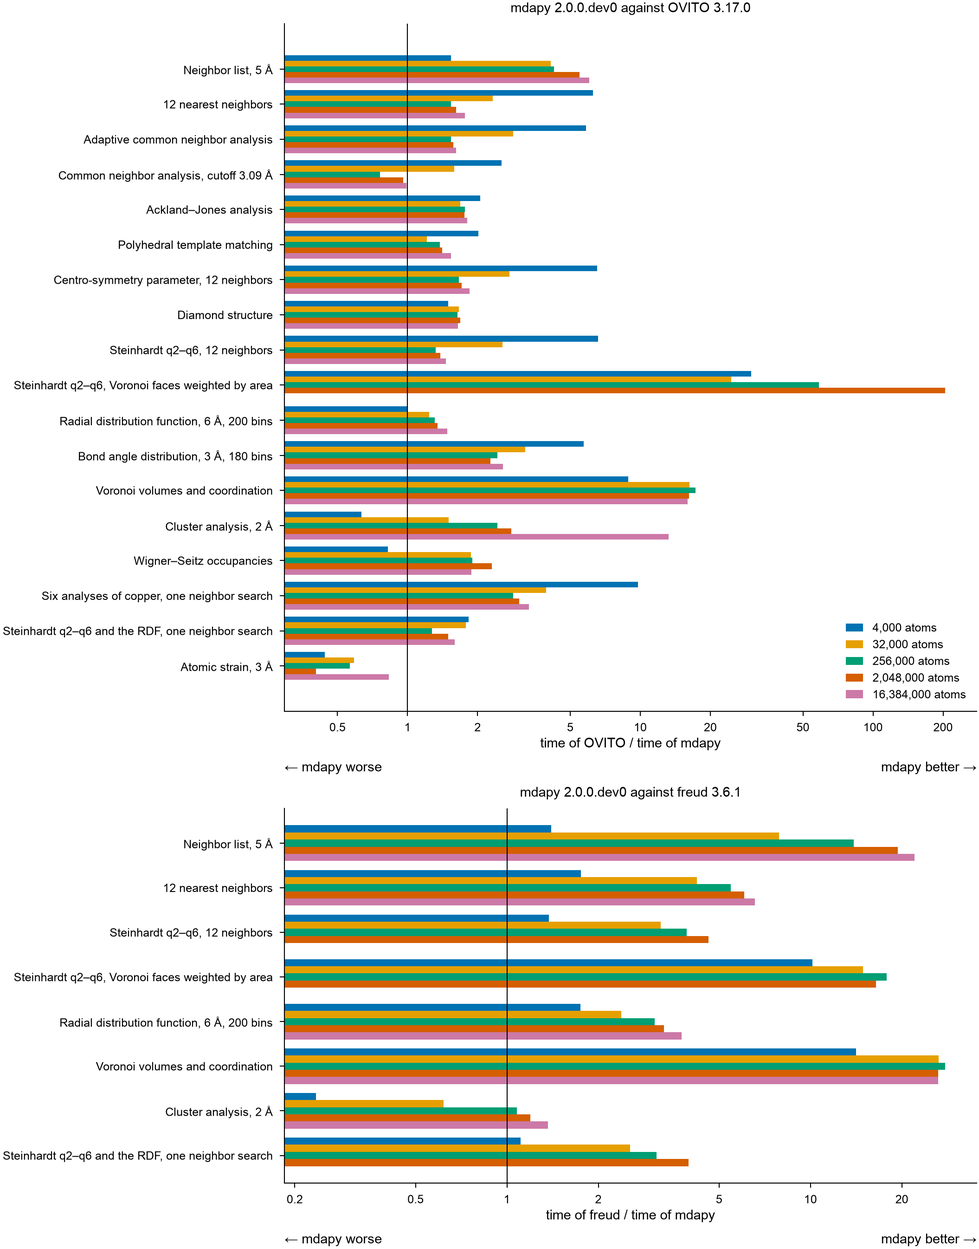
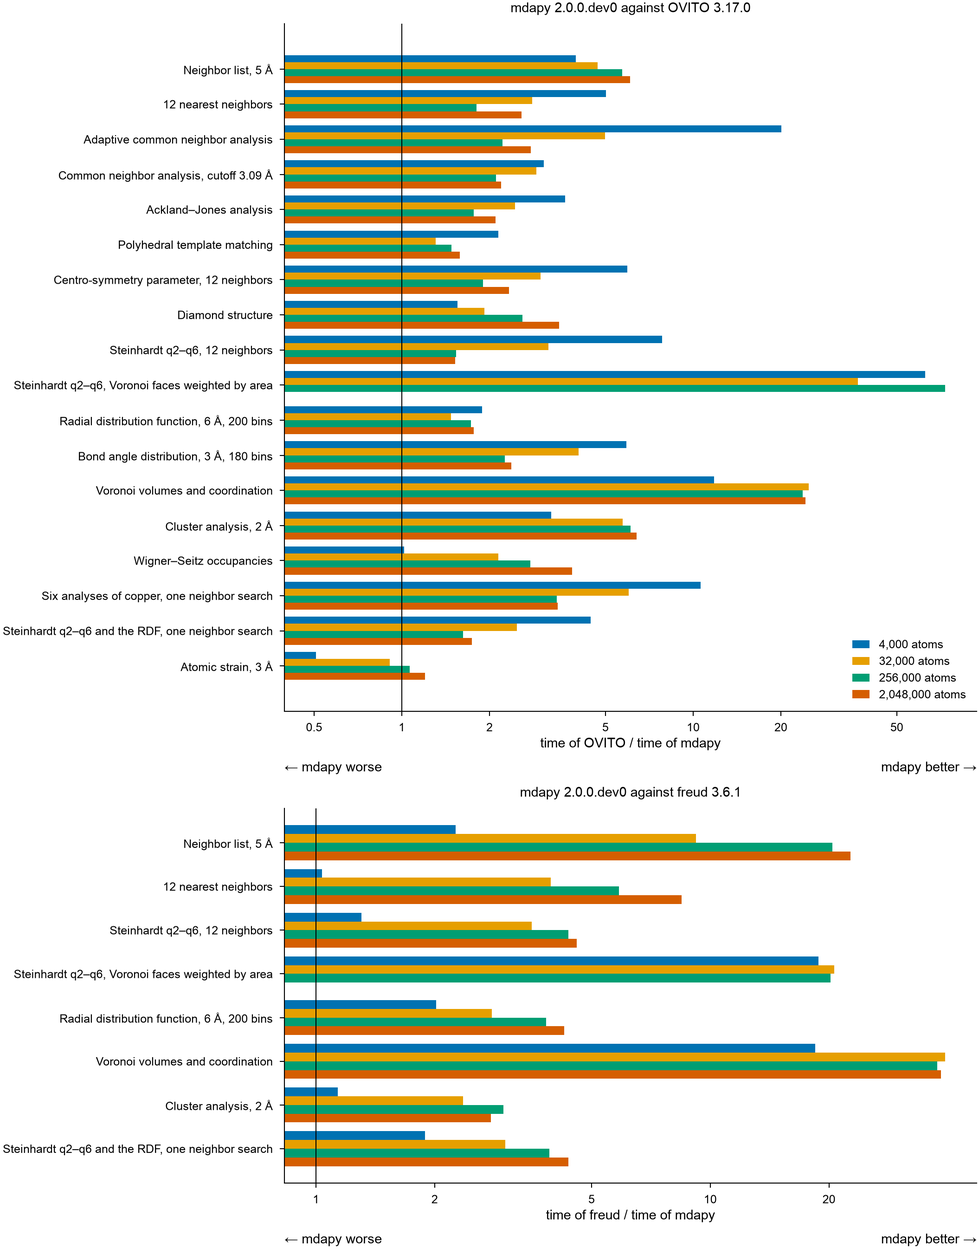
Timings against OVITO and freud after the speedups, up to 2 million atoms
From 256 000 atoms on mdapy is faster than OVITO in every analysis they
share, and below that in all but atomic strain; it is faster than freud in
every one at every size.

diff --git a/docs/performance/comparison.md b/docs/performance/comparison.md
@@ -2,13 +2,13 @@
 
 The analyses that mdapy shares with [OVITO](https://www.ovito.org) and
 [freud](https://freud.readthedocs.io), computed on the same systems with
-the same parameters, from 4 000 to 16 million atoms. A program is timed only
+the same parameters, from 4 000 to 2 million atoms. A program is timed only
 where it gives the result of mdapy, atom by atom.
 
 ## Results
 
 A node of the Triton cluster of Aalto University, alone for the run: two
-Intel Xeon Gold 6248 (40 cores, two NUMA nodes), 191 GB, Linux. Python 3.13,
+Intel Xeon Gold 6230 (40 cores, two NUMA nodes), 191 GB, Linux. Python 3.13,
 mdapy 2.0.0.dev0 built with GCC 12.3, OVITO 3.17.0 and freud 3.6.1 from
 pip, each with 40 threads.
 
@@ -16,38 +16,31 @@ pip, each with 40 threads.
 
 ### What they show
 
-- **OVITO**, from 32 000 atoms on: mdapy builds neighbor lists 4 to 6 times
-  faster in a quarter of the memory, Voronoi cells 16 times faster and
-  Steinhardt parameters over Voronoi faces 25 to 200 times; the other
-  analyses take 1.2 to 3.2 times less time, cluster analysis 13 times less at
-  16 million atoms. Two are not faster: common neighbor analysis with a
-  fixed cutoff is on par from 256 000 atoms on (OVITO 1.3 times faster at
-  256 000), and atomic strain takes 1.2 to 2.5 times as long as OVITO's.
-- **freud**: neighbor lists 8 to 22 times faster in a sixth of the memory,
-  the 12 nearest neighbors 4 to 7 times, Voronoi cells 26 times, Steinhardt
-  parameters and the radial distribution function 2.4 to 4.6 times. freud's
-  cluster analysis is faster below 256 000 atoms (1.6 times at 32 000) and
-  slower above.
+- **OVITO**: from 256 000 atoms on, mdapy is faster in every analysis they
+  share. It builds neighbor lists 4 to 6 times faster in a quarter of the
+  memory, Voronoi cells 24 times faster, Steinhardt parameters over Voronoi
+  faces 37 to 73 times and cluster analysis 6 times; the other analyses
+  take 1.5 to 3.8 times less time. Atomic strain is the closest: OVITO is
+  faster below some 100 000 atoms (twice at 4 000, 1.1 times at 32 000),
+  mdapy above (1.06 times at 256 000, 1.2 times at 2 million).
+- **freud**: mdapy is faster in every analysis at every size: neighbor
+  lists 9 to 23 times from 32 000 atoms on, in a seventh of the memory; the
+  12 nearest neighbors 4 to 8 times; Voronoi cells 38 times; Steinhardt
+  parameters and the radial distribution function 2.8 to 4.6 times; cluster
+  analysis 2.4 to 3 times.
 - **One neighbor search for several analyses**: the six analyses of copper
-  from one list take half the time of the six cases timed apart (7.8 s
-  against 15.1 s at 16 million atoms, 0.97 s against 1.85 s at 2 million;
-  the radial distribution function apart reaches 6 Å instead of 5 Å).
-  OVITO's pipeline of the six takes about the sum of its cases (25.8 s
-  against 26.7 s).
+  from one list take 1.21 s at 2 million atoms, against 2.07 s for the six
+  cases timed apart (0.16 s against 0.29 s at 256 000; the radial
+  distribution function apart reaches 6 Å instead of 5 Å). OVITO's pipeline
+  of the six takes about the sum of its cases (4.15 s against 4.35 s).
 - **Memory**: mdapy's Voronoi analysis returns every face of every cell,
-  with the atom across it, its area and its edges (11.8 GB at 16 million
+  with the atom across it, its area and its edges (1.6 GB at 2 million
   atoms); OVITO's keeps only the volumes and coordination unless asked for
   bonds or polyhedra.
-- **4 000 atoms** take a few milliseconds, where starting the threads
-  counts: OVITO is faster there for cluster analysis, Wigner–Seitz
-  occupancies and atomic strain, freud for cluster analysis.
-- **Not timed**: freud's Steinhardt parameters of the 12 nearest at 16
-  million atoms, alone and with the radial distribution function, were
-  compared under an earlier rule, values within 1e-4 of mdapy's, which ten
-  of 82 million values, of six atoms, missed by up to 1.8e-4; the rule
-  below came after, and they were not run again. Steinhardt parameters
-  over Voronoi faces were not run at 16 million atoms: OVITO took 678 s at
-  2 million.
+- **4 000 atoms** take a few milliseconds; mdapy is faster there in every
+  analysis but atomic strain.
+- **Not run**: Steinhardt parameters over Voronoi faces at 2 million atoms,
+  which took OVITO 678 s in an earlier run.
 
 ### Times and memory
 
@@ -59,139 +52,113 @@ process minus its peak before the timings.
 
 | Case | Atoms | mdapy 2.0.0.dev0 (s) | OVITO 3.17.0 (s) | OVITO / mdapy | mdapy (MB) | OVITO (MB) |
 |---|---:|---:|---:|---:|---:|---:|
-| Neighbor list, 5 Å | 4,000 | 0.005 | 0.008 | 1.54 | 0 | 10 |
-| Neighbor list, 5 Å | 32,000 | 0.008 | 0.034 | 4.13 | 18 | 131 |
-| Neighbor list, 5 Å | 256,000 | 0.042 | 0.179 | 4.26 | 185 | 758 |
-| Neighbor list, 5 Å | 2,048,000 | 0.250 | 1.368 | 5.48 | 1337 | 5324 |
-| Neighbor list, 5 Å | 16,384,000 | 1.857 | 11.200 | 6.03 | 10310 | 41419 |
-| 12 nearest neighbors | 4,000 | 0.001 | 0.009 | 6.27 | 0 | 0 |
-| 12 nearest neighbors | 32,000 | 0.005 | 0.012 | 2.33 | 2 | 12 |
-| 12 nearest neighbors | 256,000 | 0.034 | 0.053 | 1.54 | 41 | 101 |
-| 12 nearest neighbors | 2,048,000 | 0.274 | 0.442 | 1.62 | 330 | 752 |
-| 12 nearest neighbors | 16,384,000 | 2.203 | 3.889 | 1.77 | 2485 | 5544 |
-| Adaptive common neighbor analysis | 4,000 | 0.003 | 0.015 | 5.84 | 0 | 0 |
-| Adaptive common neighbor analysis | 32,000 | 0.008 | 0.021 | 2.85 | 0 | 9 |
-| Adaptive common neighbor analysis | 256,000 | 0.048 | 0.074 | 1.54 | 1 | 50 |
-| Adaptive common neighbor analysis | 2,048,000 | 0.381 | 0.598 | 1.57 | 4 | 118 |
-| Adaptive common neighbor analysis | 16,384,000 | 3.179 | 5.142 | 1.62 | 0 | 43 |
-| Common neighbor analysis, cutoff 3.09 Å | 4,000 | 0.003 | 0.007 | 2.54 | 0 | 0 |
-| Common neighbor analysis, cutoff 3.09 Å | 32,000 | 0.006 | 0.009 | 1.59 | 3 | 5 |
-| Common neighbor analysis, cutoff 3.09 Å | 256,000 | 0.031 | 0.023 | 0.76 | 32 | 29 |
-| Common neighbor analysis, cutoff 3.09 Å | 2,048,000 | 0.243 | 0.233 | 0.96 | 136 | 2 |
-| Common neighbor analysis, cutoff 3.09 Å | 16,384,000 | 1.887 | 1.866 | 0.99 | 904 | 0 |
-| Ackland–Jones analysis | 4,000 | 0.002 | 0.005 | 2.05 | 0 | 1 |
-| Ackland–Jones analysis | 32,000 | 0.006 | 0.010 | 1.68 | 0 | 8 |
-| Ackland–Jones analysis | 256,000 | 0.040 | 0.071 | 1.77 | 0 | 50 |
-| Ackland–Jones analysis | 2,048,000 | 0.326 | 0.574 | 1.76 | 4 | 118 |
-| Ackland–Jones analysis | 16,384,000 | 2.725 | 4.923 | 1.81 | 0 | 43 |
-| Polyhedral template matching | 4,000 | 0.013 | 0.027 | 2.02 | 4 | 1 |
-| Polyhedral template matching | 32,000 | 0.033 | 0.040 | 1.21 | 13 | 12 |
-| Polyhedral template matching | 256,000 | 0.202 | 0.277 | 1.37 | 73 | 39 |
-| Polyhedral template matching | 2,048,000 | 1.578 | 2.220 | 1.41 | 505 | 178 |
-| Polyhedral template matching | 16,384,000 | 12.620 | 19.354 | 1.53 | 3909 | 51 |
-| Centro-symmetry parameter, 12 neighbors | 4,000 | 0.002 | 0.010 | 6.54 | 0 | 0 |
-| Centro-symmetry parameter, 12 neighbors | 32,000 | 0.005 | 0.015 | 2.74 | 0 | 5 |
-| Centro-symmetry parameter, 12 neighbors | 256,000 | 0.035 | 0.058 | 1.66 | 0 | 42 |
-| Centro-symmetry parameter, 12 neighbors | 2,048,000 | 0.280 | 0.478 | 1.71 | 8 | 125 |
-| Centro-symmetry parameter, 12 neighbors | 16,384,000 | 2.280 | 4.218 | 1.85 | 0 | 24 |
-| Diamond structure | 4,096 | 0.002 | 0.004 | 1.50 | 0 | 2 |
-| Diamond structure | 32,768 | 0.007 | 0.012 | 1.66 | 0 | 21 |
-| Diamond structure | 262,144 | 0.042 | 0.069 | 1.64 | 10 | 80 |
-| Diamond structure | 2,000,376 | 0.311 | 0.524 | 1.68 | 111 | 271 |
-| Diamond structure | 16,387,064 | 2.684 | 4.422 | 1.65 | 634 | 1653 |
-| Steinhardt q2–q6, 12 neighbors | 4,000 | 0.002 | 0.014 | 6.59 | 0 | 0 |
-| Steinhardt q2–q6, 12 neighbors | 32,000 | 0.007 | 0.017 | 2.55 | 1 | 10 |
-| Steinhardt q2–q6, 12 neighbors | 256,000 | 0.048 | 0.063 | 1.32 | 10 | 58 |
-| Steinhardt q2–q6, 12 neighbors | 2,048,000 | 0.373 | 0.515 | 1.38 | 60 | 79 |
-| Steinhardt q2–q6, 12 neighbors | 16,384,000 | 3.021 | 4.414 | 1.46 | 172 | 169 |
-| Steinhardt q2–q6, Voronoi faces weighted by area | 4,000 | 0.010 | 0.304 | 30.00 | 3 | 1 |
-| Steinhardt q2–q6, Voronoi faces weighted by area | 32,000 | 0.057 | 1.398 | 24.64 | 53 | 13 |
-| Steinhardt q2–q6, Voronoi faces weighted by area | 256,000 | 0.388 | 22.697 | 58.47 | 427 | 42 |
-| Steinhardt q2–q6, Voronoi faces weighted by area | 2,048,000 | 3.318 | 677.980 | 204.32 | 3133 | 56 |
-| Radial distribution function, 6 Å, 200 bins | 4,000 | 0.005 | 0.005 | 1.00 | 0 | 0 |
-| Radial distribution function, 6 Å, 200 bins | 32,000 | 0.007 | 0.009 | 1.24 | 2 | 4 |
-| Radial distribution function, 6 Å, 200 bins | 256,000 | 0.030 | 0.039 | 1.31 | 24 | 18 |
-| Radial distribution function, 6 Å, 200 bins | 2,048,000 | 0.222 | 0.298 | 1.35 | 72 | 0 |
-| Radial distribution function, 6 Å, 200 bins | 16,384,000 | 1.756 | 2.602 | 1.48 | 399 | 0 |
-| Bond angle distribution, 3 Å, 180 bins | 4,000 | 0.002 | 0.014 | 5.72 | 1 | 2 |
-| Bond angle distribution, 3 Å, 180 bins | 32,000 | 0.007 | 0.021 | 3.21 | 4 | 37 |
-| Bond angle distribution, 3 Å, 180 bins | 256,000 | 0.032 | 0.079 | 2.43 | 21 | 256 |
-| Bond angle distribution, 3 Å, 180 bins | 2,048,000 | 0.263 | 0.596 | 2.27 | 166 | 1355 |
-| Bond angle distribution, 3 Å, 180 bins | 16,384,000 | 2.108 | 5.421 | 2.57 | 1163 | 7005 |
-| Voronoi volumes and coordination | 4,000 | 0.005 | 0.047 | 8.87 | 1 | 0 |
-| Voronoi volumes and coordination | 32,000 | 0.023 | 0.370 | 16.28 | 22 | 2 |
-| Voronoi volumes and coordination | 256,000 | 0.174 | 3.017 | 17.31 | 208 | 8 |
-| Voronoi volumes and coordination | 2,048,000 | 1.475 | 23.879 | 16.19 | 1547 | 22 |
-| Voronoi volumes and coordination | 16,384,000 | 11.833 | 188.808 | 15.96 | 11836 | 2 |
-| Cluster analysis, 2 Å | 3,998 | 0.004 | 0.002 | 0.63 | 10 | 0 |
-| Cluster analysis, 2 Å | 31,966 | 0.012 | 0.018 | 1.50 | 1 | 6 |
-| Cluster analysis, 2 Å | 255,756 | 0.065 | 0.157 | 2.43 | 72 | 25 |
-| Cluster analysis, 2 Å | 2,046,192 | 0.720 | 2.010 | 2.79 | 435 | 0 |
-| Cluster analysis, 2 Å | 16,369,777 | 7.073 | 93.526 | 13.22 | 1792 | 0 |
-| Wigner–Seitz occupancies | 3,974 | 0.001 | 0.001 | 0.82 | 0 | 1 |
-| Wigner–Seitz occupancies | 31,811 | 0.003 | 0.006 | 1.87 | 0 | 8 |
-| Wigner–Seitz occupancies | 254,734 | 0.019 | 0.036 | 1.90 | 0 | 36 |
-| Wigner–Seitz occupancies | 2,037,841 | 0.137 | 0.315 | 2.30 | 15 | 172 |
-| Wigner–Seitz occupancies | 16,302,490 | 1.273 | 2.390 | 1.88 | 0 | 416 |
-| Six analyses of copper, one neighbor search | 4,000 | 0.007 | 0.064 | 9.79 | 1 | 8 |
-| Six analyses of copper, one neighbor search | 32,000 | 0.025 | 0.099 | 3.95 | 20 | 85 |
-| Six analyses of copper, one neighbor search | 256,000 | 0.131 | 0.372 | 2.84 | 187 | 481 |
-| Six analyses of copper, one neighbor search | 2,048,000 | 0.971 | 2.933 | 3.02 | 1339 | 1663 |
-| Six analyses of copper, one neighbor search | 16,384,000 | 7.772 | 25.770 | 3.32 | 10310 | 8348 |
-| Steinhardt q2–q6 and the RDF, one neighbor search | 4,000 | 0.011 | 0.019 | 1.83 | 1 | 1 |
-| Steinhardt q2–q6 and the RDF, one neighbor search | 32,000 | 0.014 | 0.024 | 1.78 | 19 | 10 |
-| Steinhardt q2–q6 and the RDF, one neighbor search | 256,000 | 0.071 | 0.091 | 1.27 | 187 | 83 |
-| Steinhardt q2–q6 and the RDF, one neighbor search | 2,048,000 | 0.485 | 0.725 | 1.49 | 1339 | 134 |
-| Steinhardt q2–q6 and the RDF, one neighbor search | 16,384,000 | 3.783 | 6.039 | 1.60 | 10310 | 391 |
-| Atomic strain, 3 Å | 4,000 | 0.003 | 0.001 | 0.44 | 0 | 0 |
-| Atomic strain, 3 Å | 32,000 | 0.005 | 0.003 | 0.59 | 5 | 6 |
-| Atomic strain, 3 Å | 256,000 | 0.023 | 0.013 | 0.57 | 76 | 44 |
-| Atomic strain, 3 Å | 2,048,000 | 0.210 | 0.085 | 0.40 | 466 | 231 |
-| Atomic strain, 3 Å | 16,384,000 | 1.367 | 1.133 | 0.83 | 3715 | 1520 |
+| Neighbor list, 5 Å | 4,000 | 0.004 | 0.016 | 3.96 | 0 | 10 |
+| Neighbor list, 5 Å | 32,000 | 0.009 | 0.042 | 4.70 | 18 | 92 |
+| Neighbor list, 5 Å | 256,000 | 0.038 | 0.216 | 5.70 | 186 | 758 |
+| Neighbor list, 5 Å | 2,048,000 | 0.272 | 1.655 | 6.08 | 1362 | 5324 |
+| 12 nearest neighbors | 4,000 | 0.003 | 0.015 | 5.01 | 0 | 0 |
+| 12 nearest neighbors | 32,000 | 0.007 | 0.019 | 2.80 | 2 | 12 |
+| 12 nearest neighbors | 256,000 | 0.042 | 0.076 | 1.81 | 49 | 100 |
+| 12 nearest neighbors | 2,048,000 | 0.252 | 0.647 | 2.57 | 343 | 751 |
+| Adaptive common neighbor analysis | 4,000 | 0.001 | 0.027 | 20.06 | 0 | 0 |
+| Adaptive common neighbor analysis | 32,000 | 0.007 | 0.033 | 4.98 | 0 | 6 |
+| Adaptive common neighbor analysis | 256,000 | 0.049 | 0.108 | 2.22 | 3 | 45 |
+| Adaptive common neighbor analysis | 2,048,000 | 0.311 | 0.862 | 2.77 | 65 | 118 |
+| Common neighbor analysis, cutoff 3.09 Å | 4,000 | 0.004 | 0.011 | 3.08 | 0 | 0 |
+| Common neighbor analysis, cutoff 3.09 Å | 32,000 | 0.005 | 0.015 | 2.90 | 0 | 6 |
+| Common neighbor analysis, cutoff 3.09 Å | 256,000 | 0.016 | 0.035 | 2.11 | 16 | 28 |
+| Common neighbor analysis, cutoff 3.09 Å | 2,048,000 | 0.104 | 0.228 | 2.19 | 137 | 31 |
+| Ackland–Jones analysis | 4,000 | 0.002 | 0.007 | 3.64 | 0 | 1 |
+| Ackland–Jones analysis | 32,000 | 0.008 | 0.019 | 2.44 | 0 | 8 |
+| Ackland–Jones analysis | 256,000 | 0.057 | 0.100 | 1.77 | 5 | 50 |
+| Ackland–Jones analysis | 2,048,000 | 0.392 | 0.823 | 2.10 | 67 | 119 |
+| Polyhedral template matching | 4,000 | 0.020 | 0.043 | 2.15 | 0 | 1 |
+| Polyhedral template matching | 32,000 | 0.041 | 0.054 | 1.31 | 13 | 10 |
+| Polyhedral template matching | 256,000 | 0.265 | 0.392 | 1.48 | 79 | 33 |
+| Polyhedral template matching | 2,048,000 | 1.991 | 3.153 | 1.58 | 507 | 177 |
+| Centro-symmetry parameter, 12 neighbors | 4,000 | 0.003 | 0.018 | 5.94 | 0 | 0 |
+| Centro-symmetry parameter, 12 neighbors | 32,000 | 0.008 | 0.024 | 2.99 | 0 | 8 |
+| Centro-symmetry parameter, 12 neighbors | 256,000 | 0.047 | 0.089 | 1.90 | 3 | 42 |
+| Centro-symmetry parameter, 12 neighbors | 2,048,000 | 0.303 | 0.707 | 2.33 | 73 | 125 |
+| Diamond structure | 4,096 | 0.003 | 0.005 | 1.55 | 0 | 2 |
+| Diamond structure | 32,768 | 0.008 | 0.014 | 1.92 | 0 | 21 |
+| Diamond structure | 262,144 | 0.038 | 0.099 | 2.59 | 13 | 80 |
+| Diamond structure | 2,000,376 | 0.213 | 0.739 | 3.46 | 100 | 270 |
+| Steinhardt q2–q6, 12 neighbors | 4,000 | 0.003 | 0.024 | 7.81 | 0 | 0 |
+| Steinhardt q2–q6, 12 neighbors | 32,000 | 0.009 | 0.028 | 3.18 | 1 | 10 |
+| Steinhardt q2–q6, 12 neighbors | 256,000 | 0.061 | 0.094 | 1.54 | 15 | 58 |
+| Steinhardt q2–q6, 12 neighbors | 2,048,000 | 0.495 | 0.755 | 1.53 | 70 | 111 |
+| Steinhardt q2–q6, Voronoi faces weighted by area | 4,000 | 0.009 | 0.545 | 62.54 | 2 | 1 |
+| Steinhardt q2–q6, Voronoi faces weighted by area | 32,000 | 0.067 | 2.447 | 36.76 | 50 | 12 |
+| Steinhardt q2–q6, Voronoi faces weighted by area | 256,000 | 0.524 | 38.419 | 73.29 | 433 | 36 |
+| Radial distribution function, 6 Å, 200 bins | 4,000 | 0.005 | 0.009 | 1.89 | 0 | 0 |
+| Radial distribution function, 6 Å, 200 bins | 32,000 | 0.008 | 0.012 | 1.48 | 0 | 4 |
+| Radial distribution function, 6 Å, 200 bins | 256,000 | 0.032 | 0.055 | 1.73 | 23 | 18 |
+| Radial distribution function, 6 Å, 200 bins | 2,048,000 | 0.245 | 0.433 | 1.77 | 73 | 0 |
+| Bond angle distribution, 3 Å, 180 bins | 4,000 | 0.004 | 0.024 | 5.90 | 0 | 2 |
+| Bond angle distribution, 3 Å, 180 bins | 32,000 | 0.008 | 0.032 | 4.04 | 0 | 35 |
+| Bond angle distribution, 3 Å, 180 bins | 256,000 | 0.045 | 0.102 | 2.26 | 18 | 255 |
+| Bond angle distribution, 3 Å, 180 bins | 2,048,000 | 0.324 | 0.768 | 2.37 | 166 | 1352 |
+| Voronoi volumes and coordination | 4,000 | 0.007 | 0.083 | 11.81 | 1 | 0 |
+| Voronoi volumes and coordination | 32,000 | 0.027 | 0.663 | 24.88 | 21 | 2 |
+| Voronoi volumes and coordination | 256,000 | 0.223 | 5.310 | 23.78 | 205 | 8 |
+| Voronoi volumes and coordination | 2,048,000 | 1.754 | 42.578 | 24.28 | 1583 | 21 |
+| Cluster analysis, 2 Å | 3,998 | 0.001 | 0.004 | 3.26 | 0 | 0 |
+| Cluster analysis, 2 Å | 31,966 | 0.005 | 0.030 | 5.73 | 2 | 6 |
+| Cluster analysis, 2 Å | 255,756 | 0.041 | 0.251 | 6.10 | 27 | 28 |
+| Cluster analysis, 2 Å | 2,046,192 | 0.439 | 2.804 | 6.39 | 219 | 0 |
+| Wigner–Seitz occupancies | 3,974 | 0.002 | 0.002 | 1.02 | 0 | 1 |
+| Wigner–Seitz occupancies | 31,811 | 0.004 | 0.008 | 2.15 | 0 | 8 |
+| Wigner–Seitz occupancies | 254,734 | 0.020 | 0.055 | 2.76 | 3 | 36 |
+| Wigner–Seitz occupancies | 2,037,841 | 0.122 | 0.470 | 3.84 | 17 | 148 |
+| Six analyses of copper, one neighbor search | 4,000 | 0.010 | 0.110 | 10.61 | 1 | 7 |
+| Six analyses of copper, one neighbor search | 32,000 | 0.025 | 0.149 | 6.01 | 20 | 84 |
+| Six analyses of copper, one neighbor search | 256,000 | 0.157 | 0.533 | 3.40 | 187 | 462 |
+| Six analyses of copper, one neighbor search | 2,048,000 | 1.210 | 4.152 | 3.43 | 1339 | 1720 |
+| Steinhardt q2–q6 and the RDF, one neighbor search | 4,000 | 0.007 | 0.032 | 4.45 | 1 | 1 |
+| Steinhardt q2–q6 and the RDF, one neighbor search | 32,000 | 0.015 | 0.038 | 2.48 | 20 | 12 |
+| Steinhardt q2–q6 and the RDF, one neighbor search | 256,000 | 0.081 | 0.132 | 1.62 | 174 | 73 |
+| Steinhardt q2–q6 and the RDF, one neighbor search | 2,048,000 | 0.592 | 1.031 | 1.74 | 1340 | 93 |
+| Atomic strain, 3 Å | 4,000 | 0.004 | 0.002 | 0.51 | 0 | 0 |
+| Atomic strain, 3 Å | 32,000 | 0.005 | 0.004 | 0.91 | 1 | 6 |
+| Atomic strain, 3 Å | 256,000 | 0.016 | 0.017 | 1.06 | 46 | 44 |
+| Atomic strain, 3 Å | 2,048,000 | 0.090 | 0.108 | 1.20 | 232 | 269 |
 
 #### freud
 
 | Case | Atoms | mdapy 2.0.0.dev0 (s) | freud 3.6.1 (s) | freud / mdapy | mdapy (MB) | freud (MB) |
 |---|---:|---:|---:|---:|---:|---:|
-| Neighbor list, 5 Å | 4,000 | 0.005 | 0.008 | 1.40 | 0 | 23 |
-| Neighbor list, 5 Å | 32,000 | 0.008 | 0.064 | 7.87 | 18 | 200 |
-| Neighbor list, 5 Å | 256,000 | 0.042 | 0.584 | 13.88 | 185 | 1582 |
-| Neighbor list, 5 Å | 2,048,000 | 0.250 | 4.842 | 19.40 | 1337 | 9671 |
-| Neighbor list, 5 Å | 16,384,000 | 1.857 | 40.854 | 22.00 | 10310 | 61557 |
-| 12 nearest neighbors | 4,000 | 0.001 | 0.002 | 1.75 | 0 | 4 |
-| 12 nearest neighbors | 32,000 | 0.005 | 0.022 | 4.23 | 2 | 52 |
-| 12 nearest neighbors | 256,000 | 0.034 | 0.187 | 5.46 | 41 | 428 |
-| 12 nearest neighbors | 2,048,000 | 0.274 | 1.653 | 6.04 | 330 | 3269 |
-| 12 nearest neighbors | 16,384,000 | 2.203 | 14.442 | 6.56 | 2485 | 18948 |
-| Steinhardt q2–q6, 12 neighbors | 4,000 | 0.002 | 0.003 | 1.38 | 0 | 2 |
-| Steinhardt q2–q6, 12 neighbors | 32,000 | 0.007 | 0.022 | 3.21 | 1 | 15 |
-| Steinhardt q2–q6, 12 neighbors | 256,000 | 0.048 | 0.187 | 3.91 | 10 | 127 |
-| Steinhardt q2–q6, 12 neighbors | 2,048,000 | 0.373 | 1.716 | 4.61 | 60 | 917 |
-| Steinhardt q2–q6, 12 neighbors | 16,384,000 | 3.021 | not timed, see below |  | 172 |  |
-| Steinhardt q2–q6, Voronoi faces weighted by area | 4,000 | 0.010 | 0.103 | 10.15 | 3 | 7 |
-| Steinhardt q2–q6, Voronoi faces weighted by area | 32,000 | 0.057 | 0.845 | 14.89 | 53 | 61 |
-| Steinhardt q2–q6, Voronoi faces weighted by area | 256,000 | 0.388 | 6.906 | 17.79 | 427 | 461 |
-| Steinhardt q2–q6, Voronoi faces weighted by area | 2,048,000 | 3.318 | 54.456 | 16.41 | 3133 | 3672 |
-| Radial distribution function, 6 Å, 200 bins | 4,000 | 0.005 | 0.009 | 1.74 | 0 | 31 |
-| Radial distribution function, 6 Å, 200 bins | 32,000 | 0.007 | 0.017 | 2.38 | 2 | 34 |
-| Radial distribution function, 6 Å, 200 bins | 256,000 | 0.030 | 0.091 | 3.07 | 24 | 53 |
-| Radial distribution function, 6 Å, 200 bins | 2,048,000 | 0.222 | 0.730 | 3.30 | 72 | 208 |
-| Radial distribution function, 6 Å, 200 bins | 16,384,000 | 1.756 | 6.594 | 3.76 | 399 | 1171 |
-| Voronoi volumes and coordination | 4,000 | 0.005 | 0.074 | 14.10 | 1 | 6 |
-| Voronoi volumes and coordination | 32,000 | 0.023 | 0.602 | 26.47 | 22 | 61 |
-| Voronoi volumes and coordination | 256,000 | 0.174 | 4.844 | 27.79 | 208 | 461 |
-| Voronoi volumes and coordination | 2,048,000 | 1.475 | 38.822 | 26.32 | 1547 | 3651 |
-| Voronoi volumes and coordination | 16,384,000 | 11.833 | 311.553 | 26.33 | 11836 | 29378 |
-| Cluster analysis, 2 Å | 3,998 | 0.004 | 0.001 | 0.23 | 10 | 0 |
-| Cluster analysis, 2 Å | 31,966 | 0.012 | 0.007 | 0.62 | 1 | 0 |
-| Cluster analysis, 2 Å | 255,756 | 0.065 | 0.070 | 1.08 | 72 | 26 |
-| Cluster analysis, 2 Å | 2,046,192 | 0.720 | 0.861 | 1.20 | 435 | 250 |
-| Cluster analysis, 2 Å | 16,369,777 | 7.073 | 9.657 | 1.37 | 1792 | 0 |
-| Steinhardt q2–q6 and the RDF, one neighbor search | 4,000 | 0.011 | 0.012 | 1.11 | 1 | 32 |
-| Steinhardt q2–q6 and the RDF, one neighbor search | 32,000 | 0.014 | 0.035 | 2.55 | 19 | 18 |
-| Steinhardt q2–q6 and the RDF, one neighbor search | 256,000 | 0.071 | 0.222 | 3.11 | 187 | 143 |
-| Steinhardt q2–q6 and the RDF, one neighbor search | 2,048,000 | 0.485 | 1.924 | 3.96 | 1339 | 848 |
-| Steinhardt q2–q6 and the RDF, one neighbor search | 16,384,000 | 3.783 | not timed, see below |  | 10310 |  |
+| Neighbor list, 5 Å | 4,000 | 0.004 | 0.009 | 2.26 | 0 | 24 |
+| Neighbor list, 5 Å | 32,000 | 0.009 | 0.082 | 9.19 | 18 | 197 |
+| Neighbor list, 5 Å | 256,000 | 0.038 | 0.772 | 20.40 | 186 | 1567 |
+| Neighbor list, 5 Å | 2,048,000 | 0.272 | 6.180 | 22.70 | 1362 | 9667 |
+| 12 nearest neighbors | 4,000 | 0.003 | 0.003 | 1.04 | 0 | 2 |
+| 12 nearest neighbors | 32,000 | 0.007 | 0.027 | 3.93 | 2 | 51 |
+| 12 nearest neighbors | 256,000 | 0.042 | 0.247 | 5.86 | 49 | 431 |
+| 12 nearest neighbors | 2,048,000 | 0.252 | 2.125 | 8.45 | 343 | 3268 |
+| Steinhardt q2–q6, 12 neighbors | 4,000 | 0.003 | 0.004 | 1.30 | 0 | 1 |
+| Steinhardt q2–q6, 12 neighbors | 32,000 | 0.009 | 0.031 | 3.52 | 1 | 15 |
+| Steinhardt q2–q6, 12 neighbors | 256,000 | 0.061 | 0.268 | 4.36 | 15 | 123 |
+| Steinhardt q2–q6, 12 neighbors | 2,048,000 | 0.495 | 2.267 | 4.58 | 70 | 908 |
+| Steinhardt q2–q6, Voronoi faces weighted by area | 4,000 | 0.009 | 0.164 | 18.80 | 2 | 7 |
+| Steinhardt q2–q6, Voronoi faces weighted by area | 32,000 | 0.067 | 1.374 | 20.64 | 50 | 61 |
+| Steinhardt q2–q6, Voronoi faces weighted by area | 256,000 | 0.524 | 10.567 | 20.16 | 433 | 461 |
+| Radial distribution function, 6 Å, 200 bins | 4,000 | 0.005 | 0.010 | 2.02 | 0 | 0 |
+| Radial distribution function, 6 Å, 200 bins | 32,000 | 0.008 | 0.022 | 2.79 | 0 | 6 |
+| Radial distribution function, 6 Å, 200 bins | 256,000 | 0.032 | 0.123 | 3.83 | 23 | 56 |
+| Radial distribution function, 6 Å, 200 bins | 2,048,000 | 0.245 | 1.046 | 4.26 | 73 | 239 |
+| Voronoi volumes and coordination | 4,000 | 0.007 | 0.129 | 18.45 | 1 | 7 |
+| Voronoi volumes and coordination | 32,000 | 0.027 | 1.051 | 39.43 | 21 | 60 |
+| Voronoi volumes and coordination | 256,000 | 0.223 | 8.399 | 37.62 | 205 | 461 |
+| Voronoi volumes and coordination | 2,048,000 | 1.754 | 67.523 | 38.51 | 1583 | 3650 |
+| Cluster analysis, 2 Å | 3,998 | 0.001 | 0.001 | 1.14 | 0 | 0 |
+| Cluster analysis, 2 Å | 31,966 | 0.005 | 0.012 | 2.36 | 2 | 0 |
+| Cluster analysis, 2 Å | 255,756 | 0.041 | 0.123 | 2.99 | 27 | 26 |
+| Cluster analysis, 2 Å | 2,046,192 | 0.439 | 1.217 | 2.77 | 219 | 249 |
+| Steinhardt q2–q6 and the RDF, one neighbor search | 4,000 | 0.007 | 0.014 | 1.89 | 1 | 0 |
+| Steinhardt q2–q6 and the RDF, one neighbor search | 32,000 | 0.015 | 0.047 | 3.02 | 20 | 18 |
+| Steinhardt q2–q6 and the RDF, one neighbor search | 256,000 | 0.081 | 0.317 | 3.91 | 174 | 142 |
+| Steinhardt q2–q6 and the RDF, one neighbor search | 2,048,000 | 0.592 | 2.588 | 4.37 | 1340 | 848 |
 
 ## Cases
 
@@ -248,8 +215,7 @@ radial distribution function.
   harmonics in single precision differ by 2e-5 for all but a few atoms in a
   million, by up to 2e-4 for those); every Voronoi face of freud above
   0.01 Å² is one of mdapy, and the faces freud leaves out, of distant
-  neighbors, are all below 0.02 Å² (0.1 % of the faces at 16 million atoms),
-  so its Steinhardt parameters over Voronoi faces agree within 1e-3. A
+  neighbors, are all below 0.02 Å², so its Steinhardt parameters over Voronoi faces agree within 1e-3. A
   program that differs is not timed.
 - Each process first computes the case for 500 atoms, so that loading
   libraries and starting threads are not timed, then three times for the
@@ -258,7 +224,7 @@ radial distribution function.
   Making the system and converting it into OVITO's data collection or
   freud's box and points are not timed. OVITO computes a new pipeline each
   time, so nothing is cached.
-- A process that grows beyond 170 GB or runs for more than four hours is
+- A process that grows beyond 170 GB or runs for more than 15 minutes is
   stopped, and a size is skipped where the previous one predicts more
   memory.
 
@@ -271,8 +237,8 @@ and, for the figure, matplotlib.
 ```bash
 python benchmarks/comparison.py run                     # every case
 python benchmarks/comparison.py run cna voronoi --sizes 4000 32000 --threads 1
-python benchmarks/comparison.py run --sizes 4000 32000 256000 2048000 16384000 \
-    --threads 40 --memory 170 --timeout 14400              # as above
+python benchmarks/comparison.py run --sizes 4000 32000 256000 2048000 \
+    --threads 40 --memory 170 --timeout 900                # as above
 python benchmarks/comparison.py table results.json      # Markdown tables
 python benchmarks/comparison.py plot results.json ratio.png
 ```

diff --git a/docs/index.md b/docs/index.md
@@ -75,11 +75,10 @@ flowchart TB
 - **High performance.** The heavy work runs in compiled C++ on every core.
   Analyses of the nearest neighbors find them as they go, without a list of
   pairs, and one list of pairs serves every analysis it is given. On 40
-  cores, from 32 000 to 16 million atoms, mdapy is faster than
-  [OVITO](https://www.ovito.org) in every analysis they share but two,
-  common neighbor analysis with a fixed cutoff (on par) and atomic strain,
-  and faster than [freud](https://freud.readthedocs.io) in every one but
-  cluster analysis below 256 000 atoms; see
+  cores, from 256 000 to 2 million atoms, mdapy is faster than
+  [OVITO](https://www.ovito.org) in every analysis they share, and below
+  that in all but atomic strain; it is faster than
+  [freud](https://freud.readthedocs.io) in every one at every size; see
   [Performance](performance/comparison.md).
 - **Predictable API.** One unit system: Å, eV, ps, amu, K, and GPa for
   stress ([Units and conventions](reference/units.md)). One name for each
